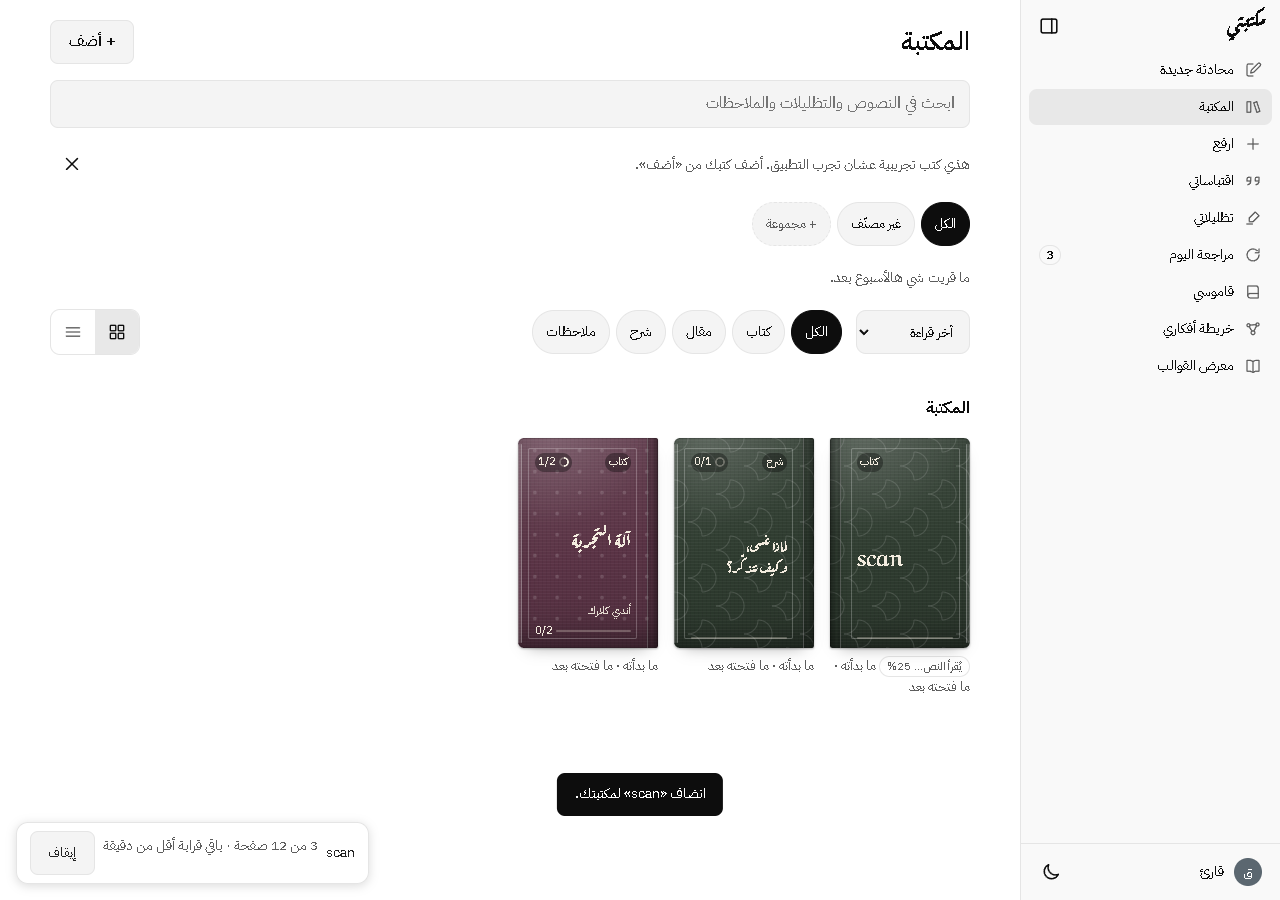
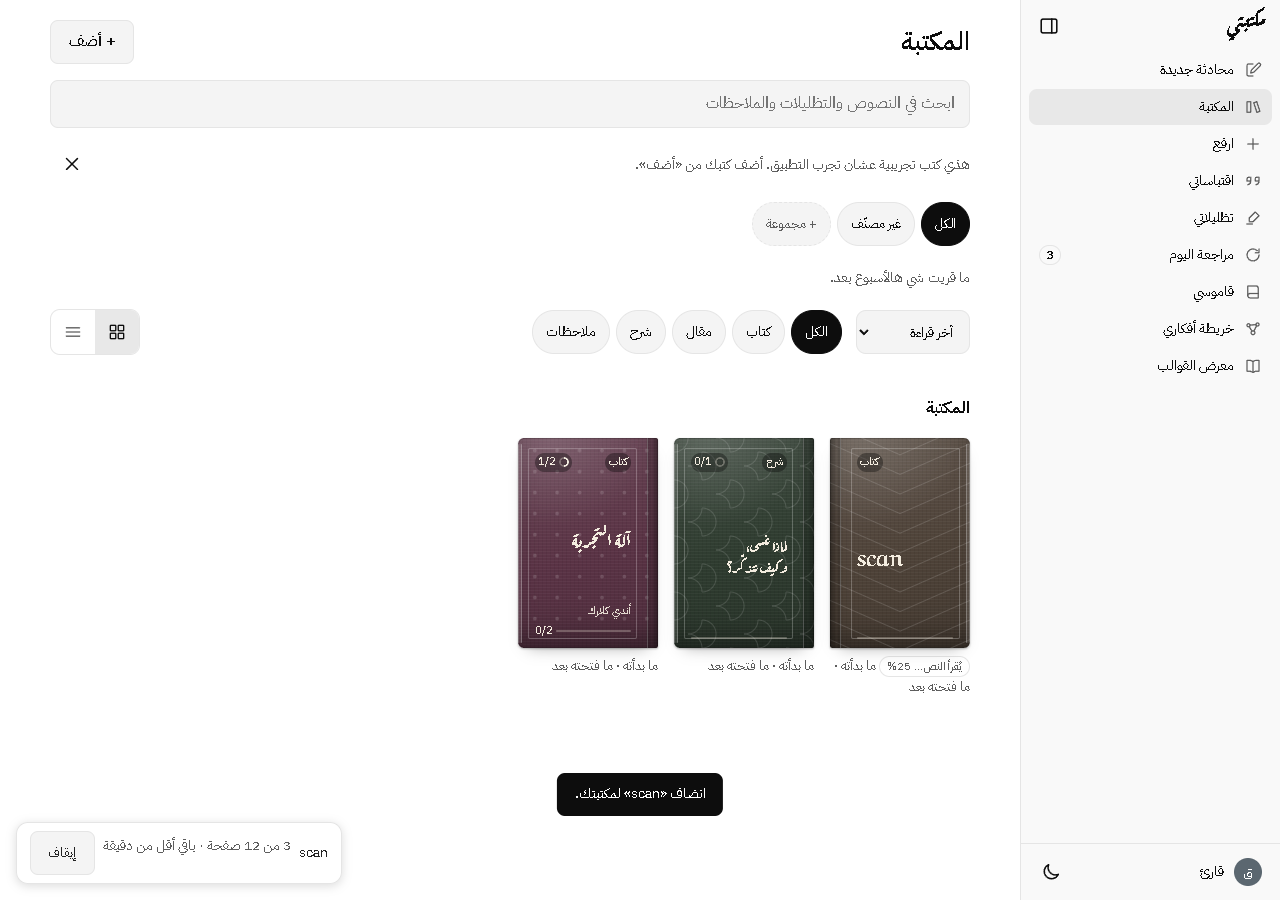
fix(ocr): retry-label grammar and under-a-minute durations
- ocrRetryLabel: 'أعد قراءة الصفحة الفاشلة' for one page, 'أعد قراءة
  الصفحات الفاشلة (N)' otherwise, empty for zero.
- Chip time left and the consent estimate share ocrApproxDuration:
  'باقي أقل من دقيقة' (no قرابة) under a minute, 'باقي قرابة X' otherwise.

Changed region(s): [[0.6562, 0.4667, 0.7812, 0.7156], [0.2188, 0.9333, 0.2812, 0.9644], [0.1562, 0.9333, 0.1875, 0.9644]]

diff --git a/apps/web/src/legacy/app.js b/apps/web/src/legacy/app.js
@@ -12,7 +12,7 @@ import { findNormalizedRange } from '../core/text.js';
 import { PROMPT_VERSION, CORRECTIVE_MESSAGE, parseGlossary, glossaryHash, glossaryForText, extractChapterUnits, chunkUnits, buildMessages as buildTranslationMessages, parseTranslation, qaSegment, estimateChapter, fingerprint, chapterSourceHash, lastTwoSentences, bookPlan, runConcurrent, hashString, isPeak, isArabicHighlight, isSourceHighlight } from '../core/translate.js';
 import { trGetJob, trPutJob, trListJobs, trGetSegments, trPutSegment, trDeleteJob, trGetGlossary, trPutGlossary, trDeleteBook, trClearAll } from '../core/translate-store.js';
 import { scannedSaveAllowed, scanBookFields, isPendingScan, ensureStores, quotaAllows, saveScannedBook, deleteScannedFile, sweepOrphanFiles, getScannedFile, persistOnce, ocrLockHeld } from '../core/scan-save.js';
-import { ensureOcrPagesStore, makeOcrStore, delOcrPagesForBook, sweepOcrPages, getBook, OCR_FAILED_LINE, OCR_CHAT_LABEL, OCR_BOOK_DISCLOSURE, OCR_EXPORT_NOTICE, OCR_DEFAULT_MS_PER_PAGE, OCR_FIRST_DOWNLOAD_MB, ocrTimeEstimate, arCount, ocrRetryLabel } from '../core/ocr-store.js';
+import { ensureOcrPagesStore, makeOcrStore, delOcrPagesForBook, sweepOcrPages, getBook, OCR_FAILED_LINE, OCR_CHAT_LABEL, OCR_BOOK_DISCLOSURE, OCR_EXPORT_NOTICE, OCR_DEFAULT_MS_PER_PAGE, OCR_FIRST_DOWNLOAD_MB, ocrTimeEstimate, arCount, ocrRetryLabel, ocrApproxDuration } from '../core/ocr-store.js';
 
 (function(){
 'use strict';
@@ -1289,8 +1289,8 @@ function updateOcrChip(state){
   c.hidden = false;
   const t = $('#toast'); if (t) t.style.bottom = '84px'; // toasts stack above the chip
   const left = Math.max(0, state.total - (state.done || 0));
-  const est = left > 0 ? ocrTimeEstimate(left, kv.get('ocrMsAvg', null) || OCR_DEFAULT_MS_PER_PAGE) : '…';
-  c.innerHTML = '<span style="white-space:nowrap;overflow:hidden;text-overflow:ellipsis;max-width:190px"><bdi dir="auto">' + esc(short(state.title || '', 24)) + '</bdi></span><span class="hint" style="white-space:nowrap">' + (state.done || 0) + ' من ' + arCount(state.total, 'صفحة') + (left > 0 ? ' · باقي قرابة ' + est : '') + '</span><button class="gbtn ch-sm" data-ocrchip="pause">إيقاف</button>';
+  const est = left > 0 ? ocrApproxDuration(ocrTimeEstimate(left, kv.get('ocrMsAvg', null) || OCR_DEFAULT_MS_PER_PAGE)) : '…';
+  c.innerHTML = '<span style="white-space:nowrap;overflow:hidden;text-overflow:ellipsis;max-width:190px"><bdi dir="auto">' + esc(short(state.title || '', 24)) + '</bdi></span><span class="hint" style="white-space:nowrap">' + (state.done || 0) + ' من ' + arCount(state.total, 'صفحة') + (left > 0 ? ' · باقي ' + est : '') + '</span><button class="gbtn ch-sm" data-ocrchip="pause">إيقاف</button>';
 }
 async function startOcr(it, opts = {}){
   if (!idb){ toast('التخزين غير متاح. ما قدرت أقرأ النص.'); return; }
@@ -5026,7 +5026,7 @@ function showPreview(P){
       (rec === 'vision' ? tx('نص هالملف ما ينقرأ (غالبًا صفحات ممسوحة كصور)، ويحتاج قراءة الصفحات كصور. هالميزة مو متوفرة بعد، فما راح أحفظه.') : '') +
       (issues.length ? '<ul class="ing-issues" style="margin:.4rem 0 0; padding-inline-start:1.2em">' + issues.map(t => '<li>' + tx(t) + '</li>').join('') + '</ul>' : '') +
       (unread.length ? '<p style="margin:.4rem 0 0"><span>' + tx('صفحات ما قدرت أقرأها:') + '</span> <bdi dir="ltr">' + esc(unread.slice(0, 40).join(', ') + (unread.length > 40 ? ' …' : '')) + '</bdi></p>' : '') + '</div>' : '') +
-    (scanOk ? '<div class="msg" role="note" style="margin:.6rem 0 0"><b>كتاب ممسوح ضوئيًا</b><p style="margin:.35rem 0 0; line-height:1.75">' + arCount(rep.pages || 0, 'صفحة') + '. قراءة النص محليًا تاخذ ' + (scanEst.indexOf('أقل') === 0 ? scanEst : 'قرابة ' + scanEst) + ' (تقدير). أول مرة ينزّل التطبيق قرابة ' + OCR_FIRST_DOWNLOAD_MB + ' ميجا من ملفات التعرف من هالموقع فقط، مرة وحدة. صفحات الكتاب ما تطلع من جهازك، وإذا قفلت التبويب توقف القراءة وتكمل من آخر صفحة بعدين.</p></div>' : '') +
+    (scanOk ? '<div class="msg" role="note" style="margin:.6rem 0 0"><b>كتاب ممسوح ضوئيًا</b><p style="margin:.35rem 0 0; line-height:1.75">' + arCount(rep.pages || 0, 'صفحة') + '. قراءة النص محليًا تاخذ ' + ocrApproxDuration(scanEst) + ' (تقدير). أول مرة ينزّل التطبيق قرابة ' + OCR_FIRST_DOWNLOAD_MB + ' ميجا من ملفات التعرف من هالموقع فقط، مرة وحدة. صفحات الكتاب ما تطلع من جهازك، وإذا قفلت التبويب توقف القراءة وتكمل من آخر صفحة بعدين.</p></div>' : '') +
     '<p class="flabel">' + tx('النوع') + '</p>' + seg('pvType', Object.keys(TYPES).map(k => [k, TYPES[k]]), it.type) +
     '<label class="flabel" for="pvT">' + tx('العنوان') + '</label><input class="inp" id="pvT" dir="auto" value="' + esc(it.title) + '">' +
     '<label class="flabel" for="pvA">' + tx('المؤلف') + '</label><input class="inp" id="pvA" dir="auto" value="' + esc(it.author || '') + '">' +

diff --git a/tests/core/ocr-ui.test.js b/tests/core/ocr-ui.test.js
@@ -2,7 +2,7 @@
 // mem/IDB sync under stale writes, onlyFailed retries, and single-PDF-open runs.
 import { describe, it, expect } from 'vitest';
 import { persistOnce, ocrLockHeld, scanBookFields } from '../../apps/web/src/core/scan-save.js';
-import { ocrTimeEstimate, arCount, arDuration, ocrRetryLabel, OCR_DEFAULT_MS_PER_PAGE, OCR_FAILED_LINE, OCR_CHAT_LABEL, OCR_BOOK_DISCLOSURE, OCR_EXPORT_NOTICE, ensureOcrPagesStore, putOcrPageAndBook, getOcrPage, getAllPages, putBook, getBook } from '../../apps/web/src/core/ocr-store.js';
+import { ocrTimeEstimate, arCount, arDuration, ocrRetryLabel, ocrApproxDuration, OCR_DEFAULT_MS_PER_PAGE, OCR_FAILED_LINE, OCR_CHAT_LABEL, OCR_BOOK_DISCLOSURE, OCR_EXPORT_NOTICE, ensureOcrPagesStore, putOcrPageAndBook, getOcrPage, getAllPages, putBook, getBook } from '../../apps/web/src/core/ocr-store.js';
 import { createOcrRunner, mergeOcrBook } from '../../apps/web/src/core/ocr-run.js';
 import { scanPageId, ensureStores } from '../../apps/web/src/core/scan-save.js';
 
@@ -70,11 +70,17 @@ describe('time estimate and shared copy', () => {
     expect(arDuration(7200)).toBe('2 ساعتان');
     expect(arDuration(10800)).toBe('3 ساعات');
   });
-  it('retry label carries the count, empty when nothing failed', () => {
+  it('retry label: grammatical, count in parentheses, empty when nothing failed', () => {
     expect(ocrRetryLabel(0)).toBe('');
-    expect(ocrRetryLabel(1)).toBe('أعد قراءة 1 صفحة الفاشلة');
-    expect(ocrRetryLabel(3)).toBe('أعد قراءة 3 صفحات الفاشلة');
-    expect(ocrRetryLabel(12)).toBe('أعد قراءة 12 صفحة الفاشلة');
+    expect(ocrRetryLabel(1)).toBe('أعد قراءة الصفحة الفاشلة');
+    expect(ocrRetryLabel(2)).toBe('أعد قراءة الصفحات الفاشلة (2)');
+    expect(ocrRetryLabel(3)).toBe('أعد قراءة الصفحات الفاشلة (3)');
+    expect(ocrRetryLabel(12)).toBe('أعد قراءة الصفحات الفاشلة (12)');
+  });
+  it('approx durations drop قرابة under a minute', () => {
+    expect(ocrApproxDuration('أقل من دقيقة')).toBe('أقل من دقيقة');
+    expect(ocrApproxDuration('4 دقايق')).toBe('قرابة 4 دقايق');
+    expect(ocrApproxDuration('1 دقيقة')).toBe('قرابة 1 دقيقة');
   });
   it('shared Arabic copy exists and mentions the essentials', () => {
     expect(OCR_FAILED_LINE).toBe('تعذّرت قراءة هذه الصفحة.');

diff --git a/apps/web/src/core/ocr-store.js b/apps/web/src/core/ocr-store.js
@@ -47,9 +47,16 @@ export function ocrTimeEstimate(pages, avgMs = OCR_DEFAULT_MS_PER_PAGE) {
   return arDuration(total);
 }
 
-/** Retry-button label: empty when nothing failed, otherwise with the count. */
+/** Retry-button label: empty when nothing failed, with the count in parentheses. */
 export function ocrRetryLabel(n) {
-  return n > 0 ? 'أعد قراءة ' + arCount(n, 'صفحة') + ' الفاشلة' : '';
+  if (n <= 0) return '';
+  if (n === 1) return 'أعد قراءة الصفحة الفاشلة';
+  return 'أعد قراءة الصفحات الفاشلة (' + n + ')';
+}
+
+/** «قرابة» is dropped for under-a-minute durations: «أقل من دقيقة» stands alone. */
+export function ocrApproxDuration(est) {
+  return est === 'أقل من دقيقة' ? est : 'قرابة ' + est;
 }
 
 /** Additive upgrade (v2 -> v3): create the store with a bookId index if missing. */
